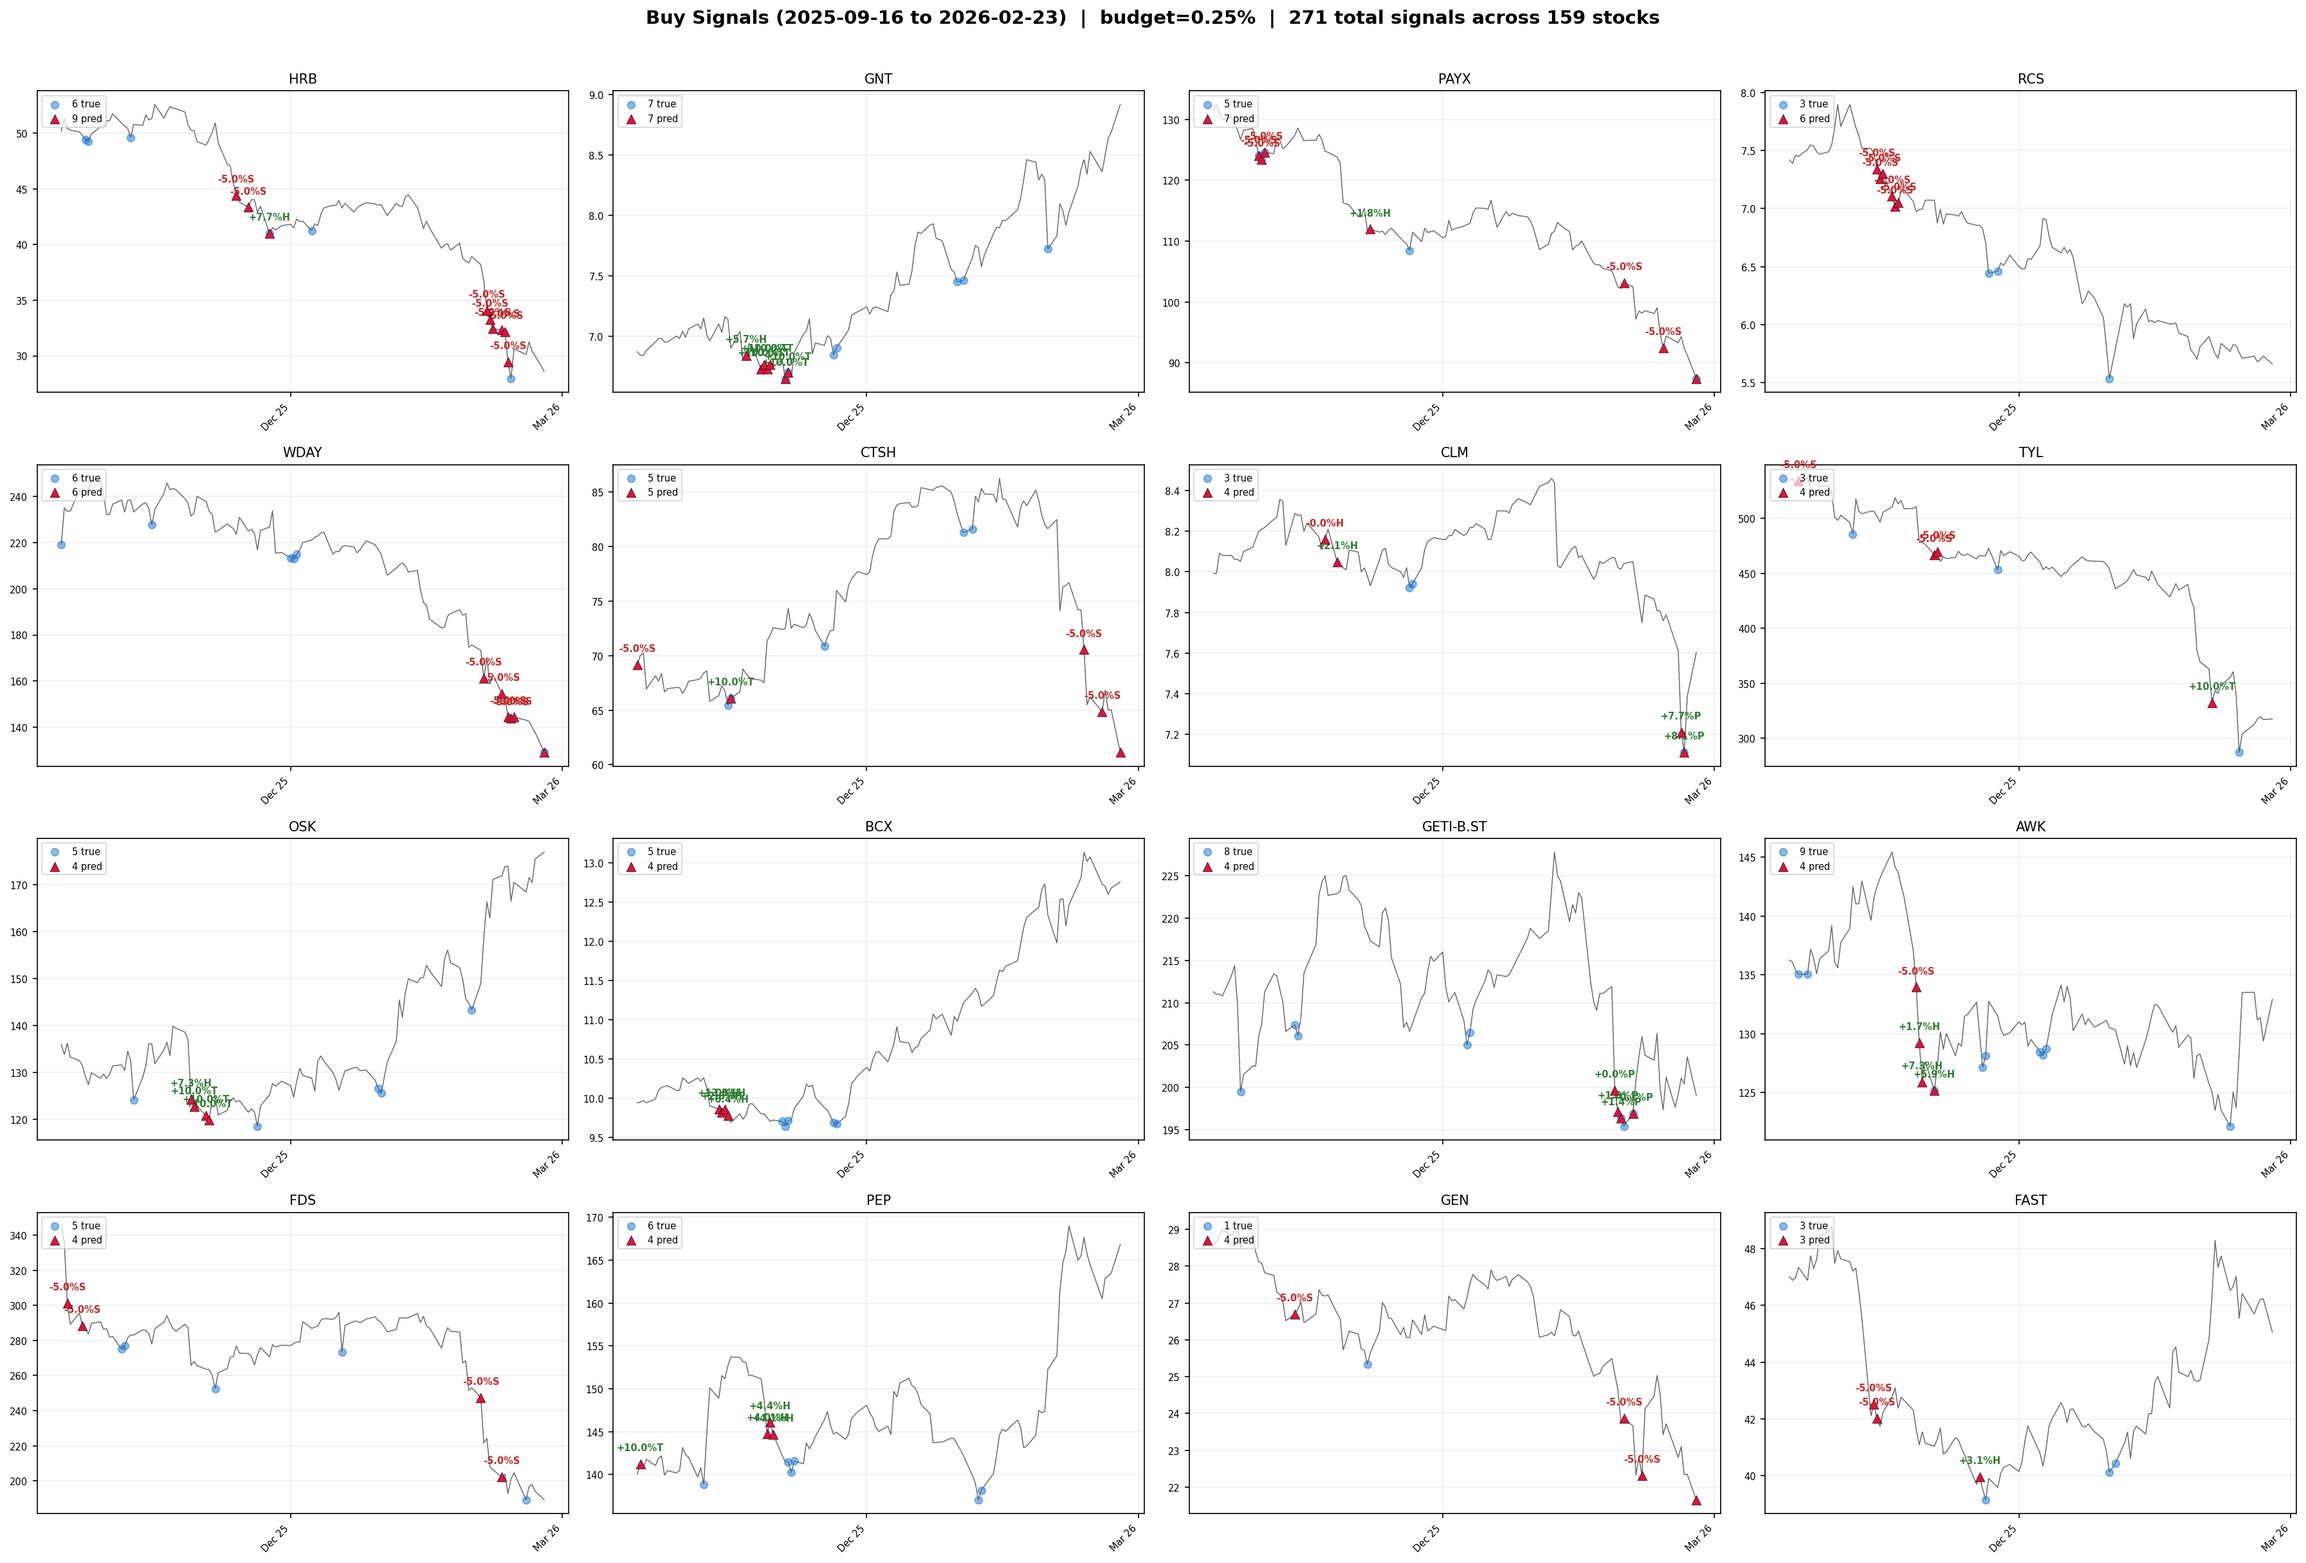
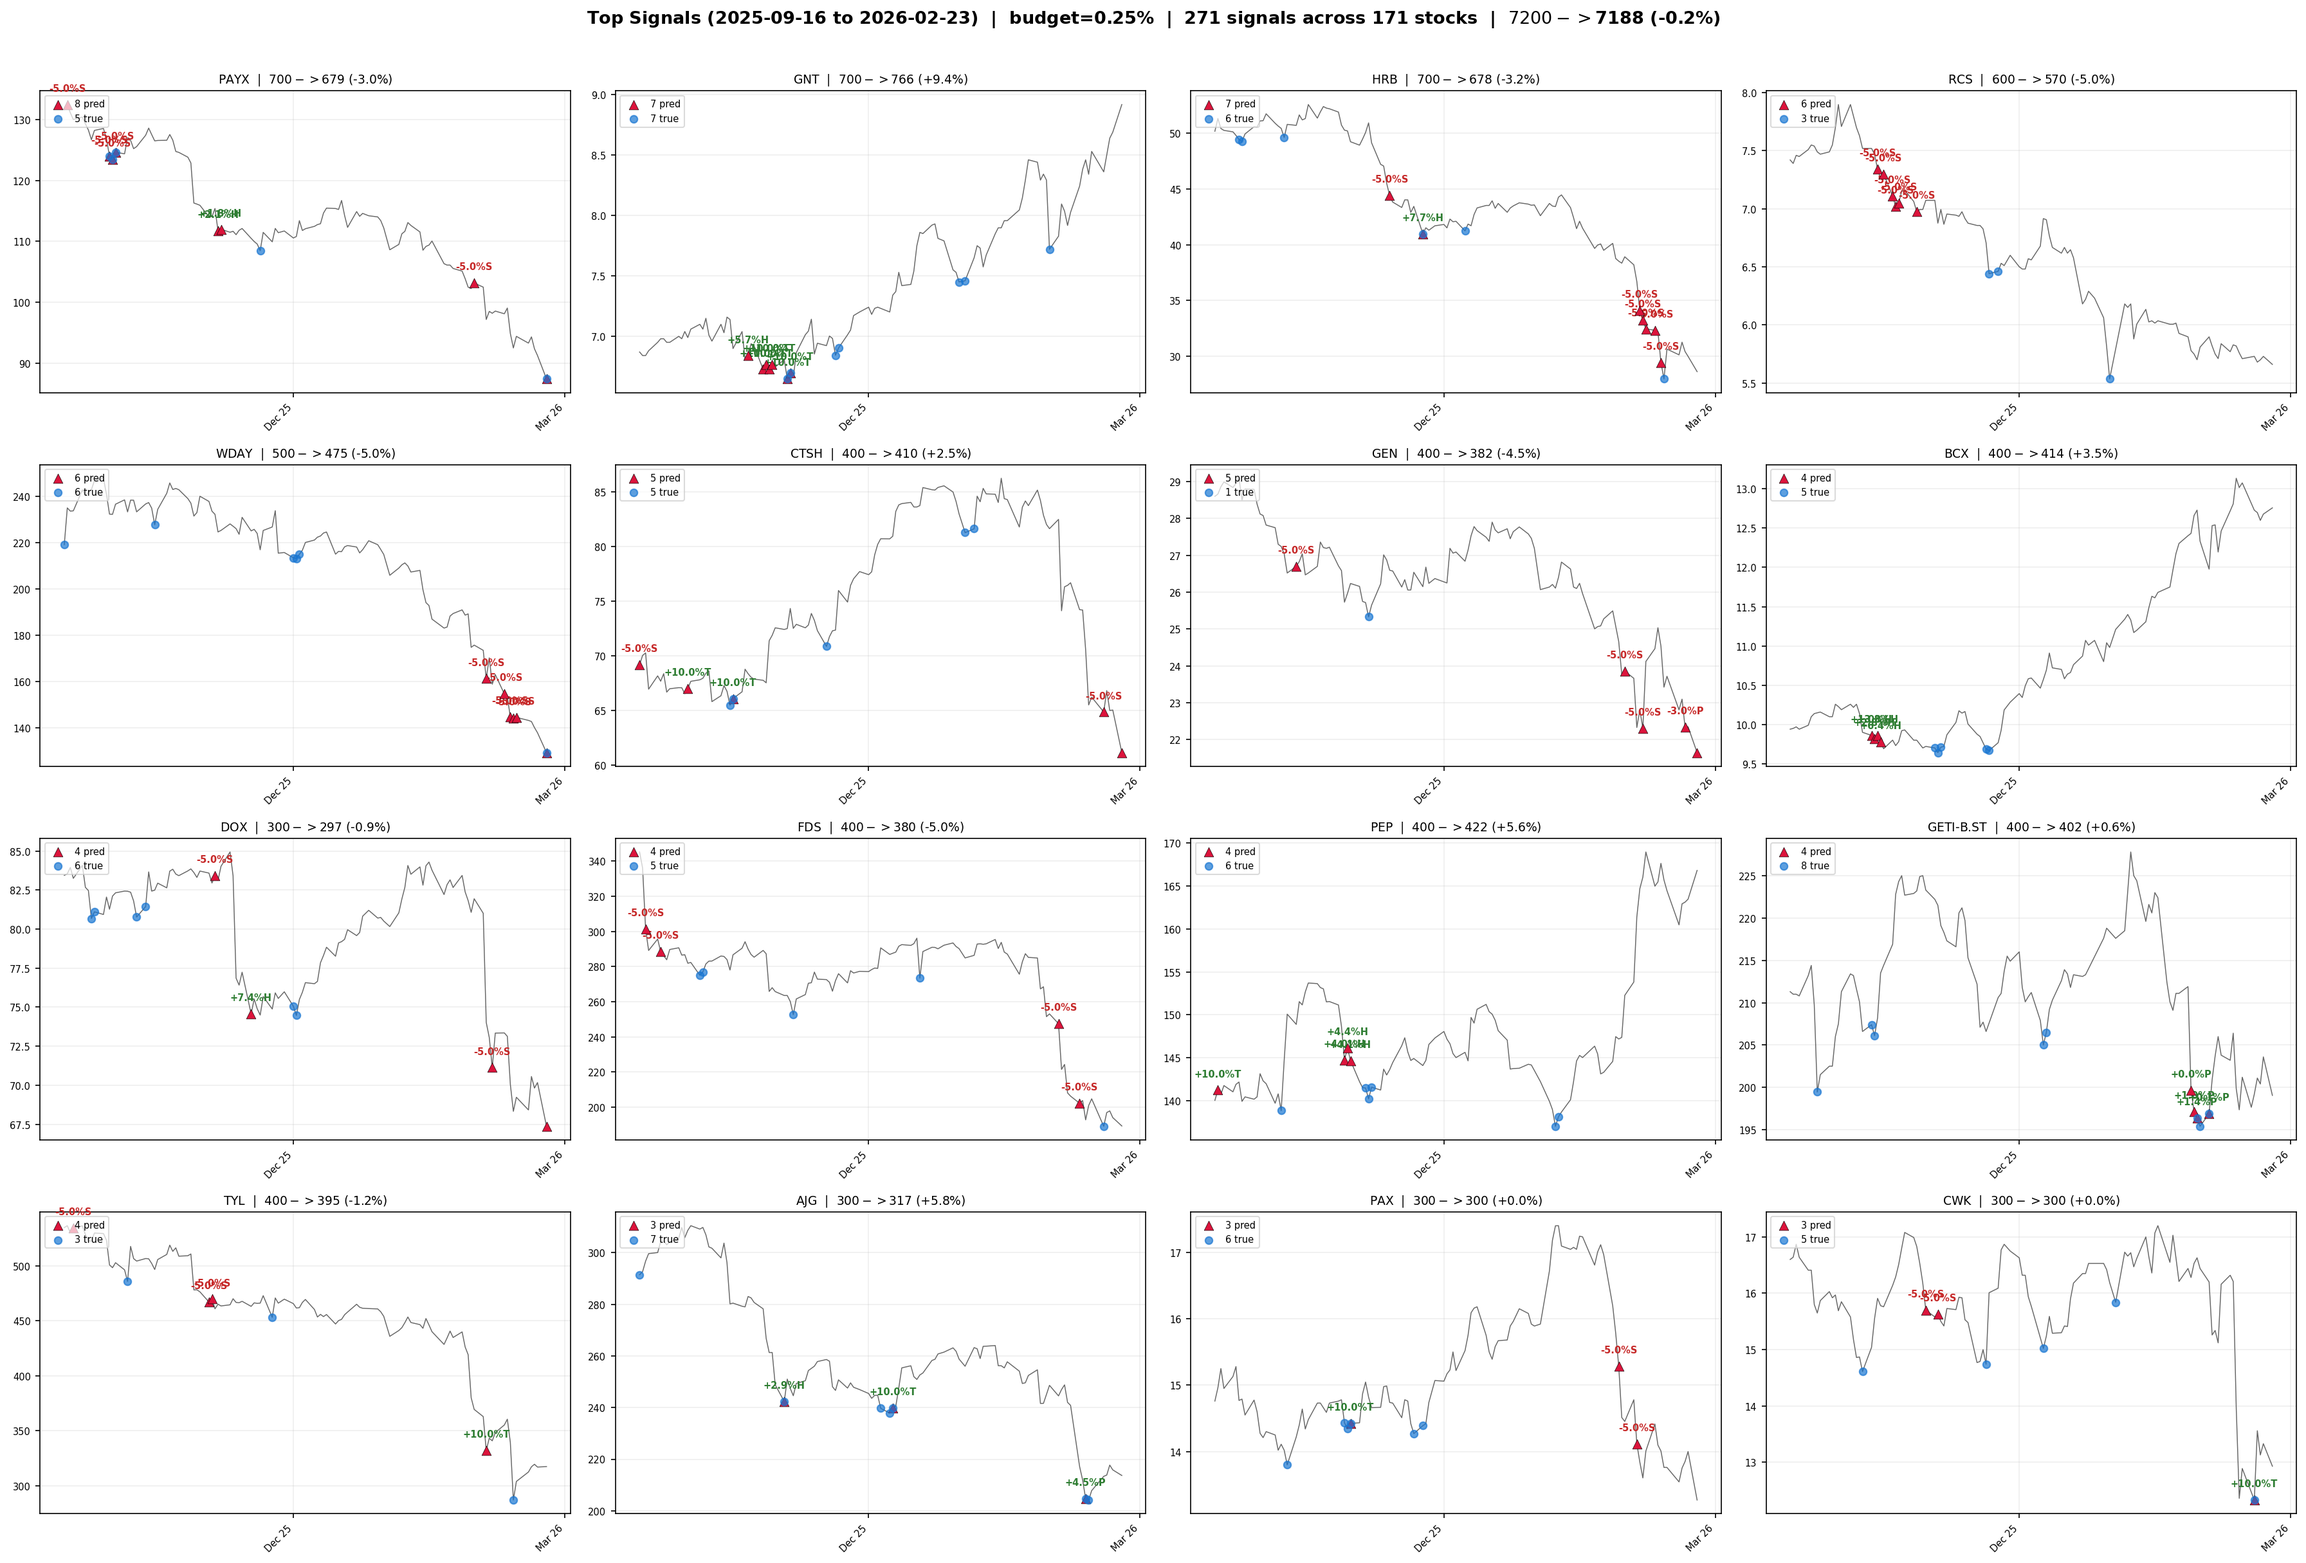
feat: enhance plotting functions to visualize top stocks by signal count and average trade return, and add new output images for analysis

diff --git a/research/test_and_plot.py b/research/test_and_plot.py
@@ -127,34 +127,20 @@ def _trade_return(stock_df, signal_date, target=0.10, stop=-0.05, max_hold=30):
     return ret, reason
 
 
-def plot_signals(val_df, y_proba, budget=VIZ_BUDGET, max_stocks=16):
-    """Plot price timeline with buy signals for top stocks by signal count."""
-
-    val = val_df.copy()
-    y_pred = select_top_frac(y_proba, budget)
-    val["pred"] = y_pred
-    val["proba"] = y_proba
-
-    signal_stocks = val[val["pred"] == 1].groupby("stock_id").size().sort_values(ascending=False)
-    if len(signal_stocks) == 0:
-        print("No signals!")
-        return
-
-    top_stocks = signal_stocks.head(max_stocks).index.tolist()
+def _plot_signal_grid(val, y_pred, top_stocks, out_name, label, budget):
+    """Plot price timeline with buy signals for given stock list."""
     n = len(top_stocks)
+    if n == 0:
+        return
     cols = min(4, n)
     rows = (n + cols - 1) // cols
 
     date_range = f"{val['date'].min().date()} to {val['date'].max().date()}"
     n_total_signals = int(y_pred.sum())
+    n_signal_stocks = val[val["pred"] == 1]["stock_id"].nunique()
     fig, axes = plt.subplots(rows, cols, figsize=(6 * cols, 4 * rows), squeeze=False)
-    fig.suptitle(
-        f"Buy Signals ({date_range})  |  budget={budget*100:.2f}%  |  "
-        f"{n_total_signals} total signals across {len(signal_stocks)} stocks",
-        fontsize=14,
-        fontweight="bold",
-        y=1.01,
-    )
+    total_invested = 0.0
+    total_result = 0.0
 
     for i, stock_id in enumerate(top_stocks):
         ax = axes[i // cols][i % cols]
@@ -164,24 +150,26 @@ def plot_signals(val_df, y_proba, budget=VIZ_BUDGET, max_stocks=16):
 
         ax.plot(dates, close, color="#555", linewidth=0.7, alpha=0.9)
 
-        true_pivots = stock[stock[LABEL_COL] == 1]
-        ax.scatter(
-            true_pivots["date"], true_pivots["close"],
-            color="#1976d2", s=30, zorder=4, marker="o", alpha=0.5,
-            label=f"{len(true_pivots)} true",
-        )
-
         signals = stock[stock["pred"] == 1]
         ax.scatter(
             signals["date"], signals["close"],
-            color="crimson", s=50, zorder=5, marker="^", edgecolors="black", linewidths=0.3,
+            color="crimson", s=50, zorder=4, marker="^", edgecolors="black", linewidths=0.3,
             label=f"{len(signals)} pred",
         )
 
+        true_pivots = stock[stock[LABEL_COL] == 1]
+        ax.scatter(
+            true_pivots["date"], true_pivots["close"],
+            color="#1976d2", s=30, zorder=5, marker="o", alpha=0.7,
+            label=f"{len(true_pivots)} true",
+        )
+
+        trade_rets = []
         for _, row in signals.iterrows():
             ret, reason = _trade_return(stock, row["date"])
             if ret is None:
                 continue
+            trade_rets.append(ret)
             color = "#2e7d32" if ret > 0 else "#c62828"
             label_text = f"{ret:+.1%}{reason}"
             ax.annotate(
@@ -190,7 +178,14 @@ def plot_signals(val_df, y_proba, budget=VIZ_BUDGET, max_stocks=16):
                 fontsize=7, color=color, ha="center", fontweight="bold",
             )
 
-        ax.set_title(f"{stock_id}", fontsize=10)
+        if trade_rets:
+            inv = len(trade_rets) * 100
+            res = sum(100 * (1 + r) for r in trade_rets)
+            total_invested += inv
+            total_result += res
+            ax.set_title(f"{stock_id}  |  ${inv:.0f} -> ${res:.0f} ({(res / inv - 1):+.1%})", fontsize=9)
+        else:
+            ax.set_title(f"{stock_id}", fontsize=10)
         ax.legend(loc="upper left", fontsize=7, framealpha=0.7)
         ax.xaxis.set_major_formatter(mdates.DateFormatter("%b %y"))
         ax.xaxis.set_major_locator(mdates.MonthLocator(interval=3))
@@ -201,11 +196,59 @@ def plot_signals(val_df, y_proba, budget=VIZ_BUDGET, max_stocks=16):
     for i in range(n, rows * cols):
         axes[i // cols][i % cols].set_visible(False)
 
+    roi_str = f"  |  ${total_invested:.0f} -> ${total_result:.0f} ({(total_result / total_invested - 1):+.1%})" if total_invested > 0 else ""
+    fig.suptitle(
+        f"{label} ({date_range})  |  budget={budget*100:.2f}%  |  "
+        f"{n_total_signals} signals across {n_signal_stocks} stocks{roi_str}",
+        fontsize=13,
+        fontweight="bold",
+        y=1.01,
+    )
+
     fig.tight_layout()
-    out = OUT_DIR / "test_signals.png"
+    out = OUT_DIR / out_name
     fig.savefig(out, dpi=150, bbox_inches="tight")
     print(f"\nSaved: {out}")
     plt.close(fig)
+
+
+def plot_signals(val_df, y_proba, budget=VIZ_BUDGET, max_stocks=16):
+    """Plot top stocks by signal count."""
+    val = val_df.copy()
+    y_pred = select_top_frac(y_proba, budget)
+    val["pred"] = y_pred
+    val["proba"] = y_proba
+
+    counts = val[val["pred"] == 1].groupby("stock_id").size().sort_values(ascending=False)
+    if len(counts) == 0:
+        print("No signals!")
+        return
+    top = counts.head(max_stocks).index.tolist()
+    _plot_signal_grid(val, y_pred, top, "test_signals.png", "Top Signals", budget)
+
+
+def plot_top_returners(val_df, y_proba, budget=VIZ_BUDGET, max_stocks=16):
+    """Plot top stocks by avg trade return."""
+    val = val_df.copy()
+    y_pred = select_top_frac(y_proba, budget)
+    val["pred"] = y_pred
+    val["proba"] = y_proba
+
+    stock_roi = {}
+    for stock_id, group in val[val["pred"] == 1].groupby("stock_id"):
+        stock = val[val["stock_id"] == stock_id].sort_values("date")
+        rets = []
+        for _, row in group.iterrows():
+            ret, _ = _trade_return(stock, row["date"])
+            if ret is not None:
+                rets.append(ret)
+        if rets:
+            stock_roi[stock_id] = sum(rets) / len(rets)
+    if not stock_roi:
+        print("No returners!")
+        return
+    top = sorted(stock_roi, key=stock_roi.get, reverse=True)[:max_stocks]
+    _plot_signal_grid(val, y_pred, top, "test_top_returners.png", "Top Returners", budget)
 
 
 def plot_returns_distribution(val_df, y_proba, budget=VIZ_BUDGET):
@@ -261,4 +304,5 @@ def plot_returns_distribution(val_df, y_proba, budget=VIZ_BUDGET):
 if __name__ == "__main__":
     val, y_proba, results = train_and_evaluate()
     plot_signals(val, y_proba)
+    plot_top_returners(val, y_proba)
     plot_returns_distribution(val, y_proba)
